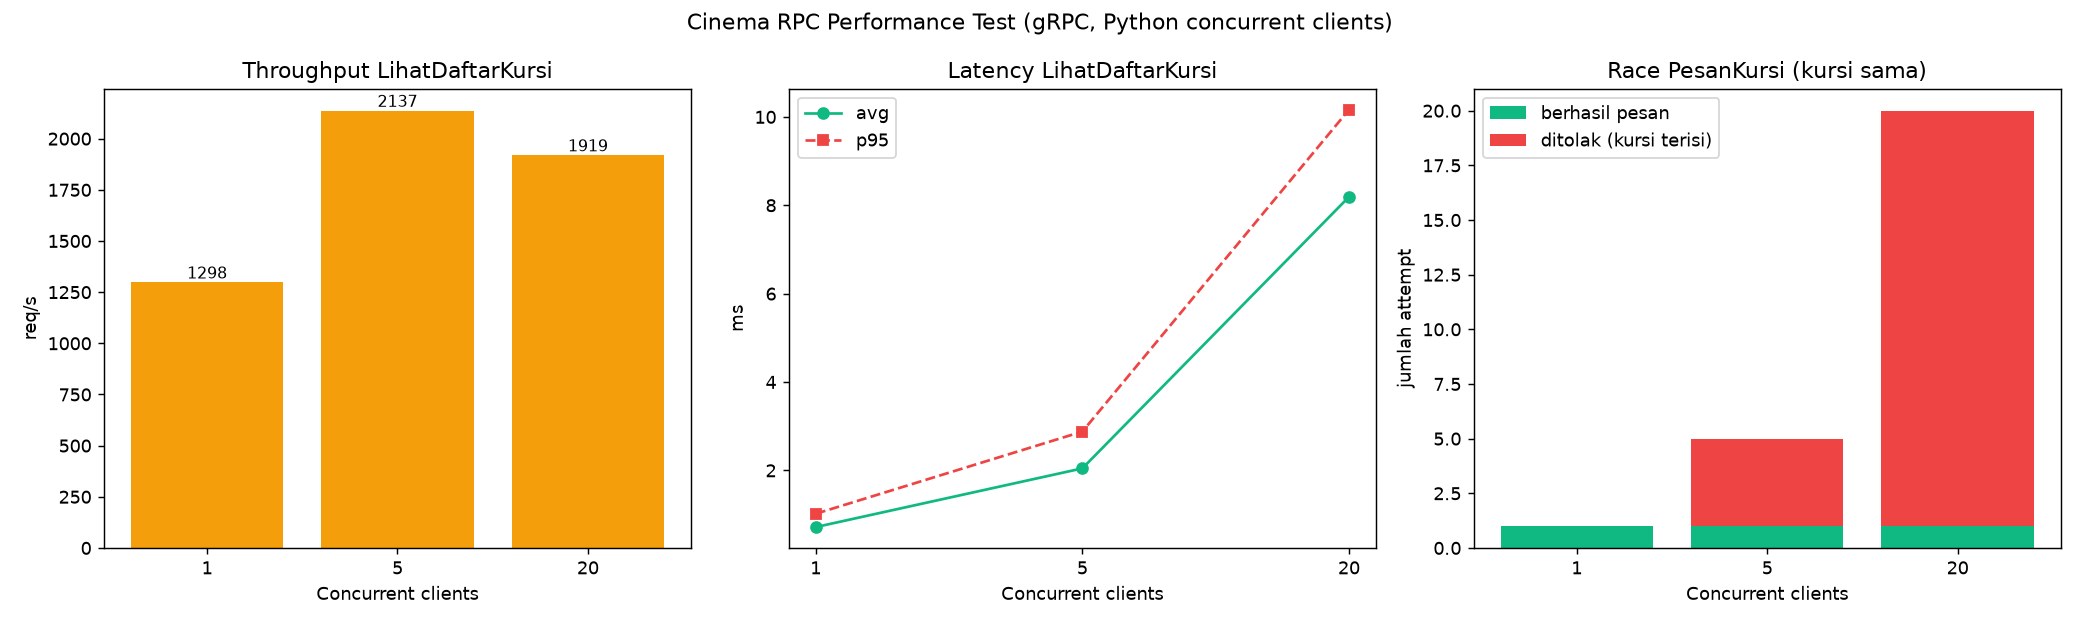
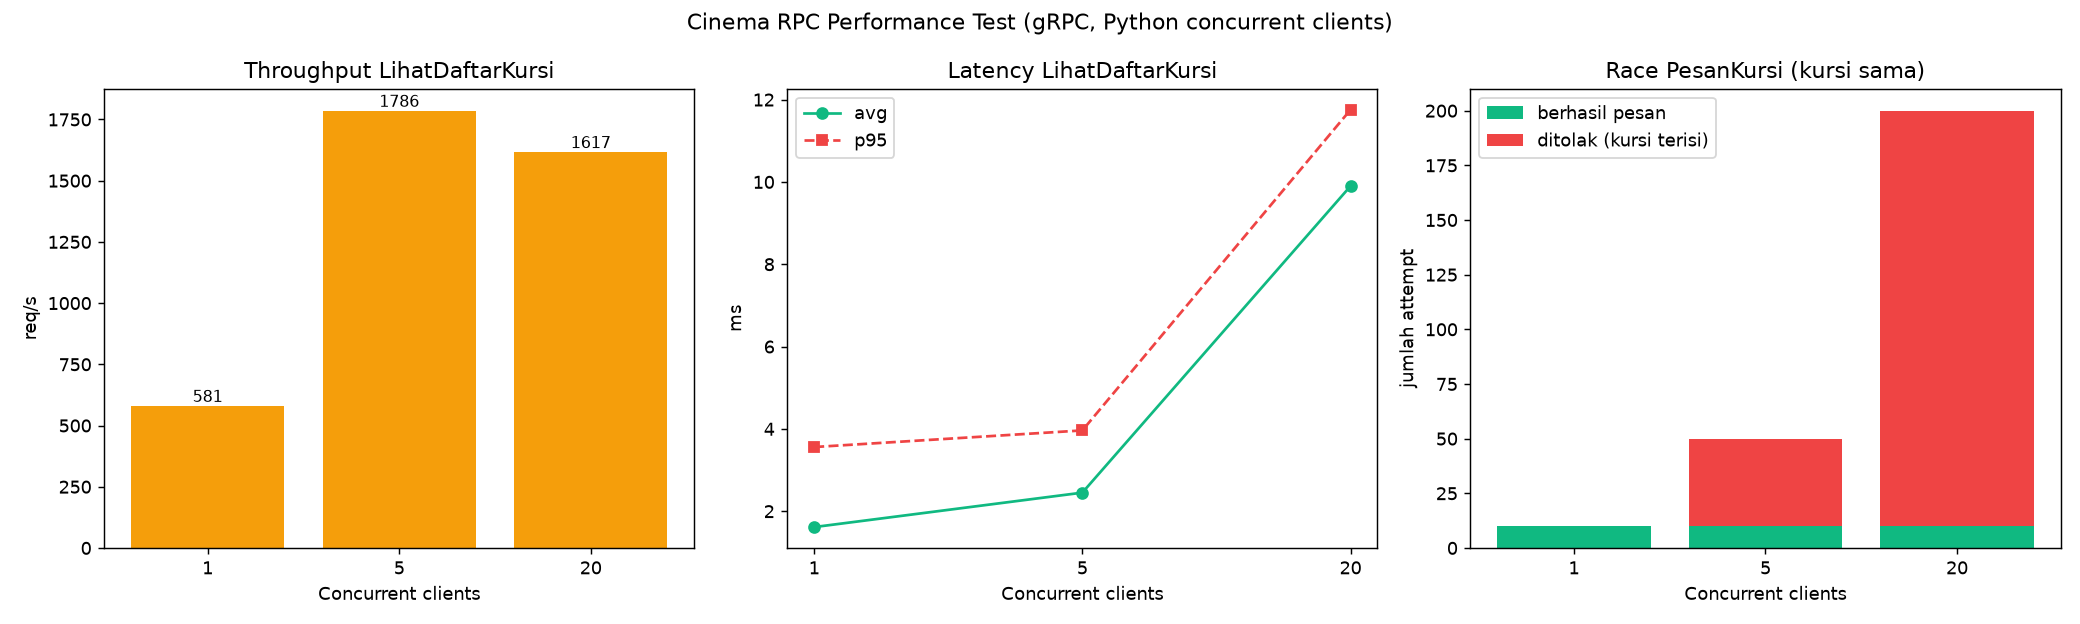
docs: chart

diff --git a/load_test/results/summary.md b/load_test/results/summary.md
@@ -1,6 +1,6 @@
 # Hasil Performance Test Cinema RPC
 
-Dihasilkan otomatis oleh `perf_test.py` pada 2026-11-02 16:02:02.
+Dihasilkan otomatis oleh `perf_test.py` pada 2026-11-02 17:12:47.
 
 ## Konfigurasi pengujian
 
@@ -8,9 +8,11 @@ Dihasilkan otomatis oleh `perf_test.py` pada 2026-11-02 16:02:02.
 - Target langsung: gRPC Server (belum melalui FastAPI Gateway).
 - Skenario `read`: 1 client = 1 THREAD = 1 koneksi gRPC; tanpa think-time;
   jumlah request per level: 1 client x 200, 5 client x 100, 20 client x 50 req.
-- Skenario `race`: seluruh client memanggil PesanKursi kursi A1 serentak (barrier);
-  tiap client lakukan warmup koneksi 1x LihatDaftarKursi sebelum barrier agar yang
-  terukur hanya latensi booking, bukan DNS/TCP setup.
+- Skenario `race`: 10 ronde per level; tiap ronde memakai server baru
+  (state fresh) dan kursi bergiliran A1, A2, A3, B1, B2, B3 (berputar bila ronde > 6);
+  seluruh client pada satu ronde memanggil PesanKursi untuk kursi yang sama serentak
+  (barrier); tiap client lakukan warmup koneksi 1x LihatDaftarKursi sebelum barrier agar
+  yang terukur hanya latensi booking, bukan DNS/TCP setup.
 - Server: 1 instance gRPC baru per skenario (state in-memory selalu fresh),
   ThreadPoolExecutor 32 worker, port dinamis.
 - Latensi diukur dengan `time.perf_counter()` per panggilan RPC; warmup 10 call
@@ -26,22 +28,22 @@ ambigu karena 1 worker memang tepat 1 koneksi.
 
 | Jenis | Client | Total Req | RPC Error | Avg (ms) | P95 (ms) | Throughput (req/s) | Success Rate |
 |---|---|---|---|---|---|---|---|
-| read | 1 | 200 | 0 | 0.72 | 1.02 | 1297.8 | 100.0% |
-| read | 5 | 500 | 0 | 2.05 | 2.88 | 2136.7 | 100.0% |
-| read | 20 | 1000 | 0 | 8.19 | 10.16 | 1919.2 | 100.0% |
+| read | 1 | 200 | 0 | 1.61 | 3.56 | 580.6 | 100.0% |
+| read | 5 | 500 | 0 | 2.45 | 3.96 | 1785.8 | 100.0% |
+| read | 20 | 1000 | 0 | 9.90 | 11.75 | 1617.4 | 100.0% |
 
-## Tabel hasil skenario `race` (PesanKursi, kursi sama)
+## Tabel hasil skenario `race` (PesanKursi, kursi sama per ronde)
 
-| Jenis | Client | Total Attempt | RPC Error | Avg (ms) | P95 (ms) | Latensi terlama (ms) | Success Rate* |
-|---|---|---|---|---|---|---|---|
-| race | 1 | 1 | 0 | 4.27 | 4.27 | 4.27 | 100.0% |
-| race | 5 | 5 | 0 | 2.71 | 3.47 | 3.33 | 100.0% |
-| race | 20 | 20 | 0 | 5.88 | 9.24 | 9.24 | 100.0% |
+| Jenis | Client | Ronde | Total Attempt | Menang | Double Booking | RPC Error | Avg (ms) | P95 (ms) | Success Rate* |
+|---|---|---|---|---|---|---|---|---|---|
+| race | 1 | 10 | 10 | 10 | 0 | 0 | 1.43 | 2.30 | 100.0% |
+| race | 5 | 10 | 50 | 10 | 0 | 0 | 3.27 | 9.47 | 100.0% |
+| race | 20 | 10 | 200 | 10 | 0 | 0 | 5.37 | 8.67 | 100.0% |
 
 \* Race test: "success rate" 100% berarti SEMUA attempt mendapat response valid
-(1 yang berhasil memesan, sisanya ditolak server karena kursi sudah terisi —
-ini perilaku yang BENAR). "Latensi terlama" = attempt paling lambat di antara
-seluruh client pada level tersebut (biasanya pemenang kursi). Rincian per level:
-- 1 client: 1 berhasil, 0 ditolak, 0 RPC error, double booking = 0
-- 5 client: 1 berhasil, 4 ditolak, 0 RPC error, double booking = 0
-- 20 client: 1 berhasil, 19 ditolak, 0 RPC error, double booking = 0
+(tepat 1 yang berhasil memesan per ronde, sisanya ditolak server karena kursi sudah
+terisi — ini perilaku yang BENAR). `Double Booking` harus 0; nilainya dihitung dari
+kelebihan pemenang pada setiap ronde. Rincian per level:
+- 1 client: 10 ronde, 10 menang, 0 ditolak, 0 RPC error, double booking = 0
+- 5 client: 10 ronde, 10 menang, 40 ditolak, 0 RPC error, double booking = 0
+- 20 client: 10 ronde, 10 menang, 190 ditolak, 0 RPC error, double booking = 0
